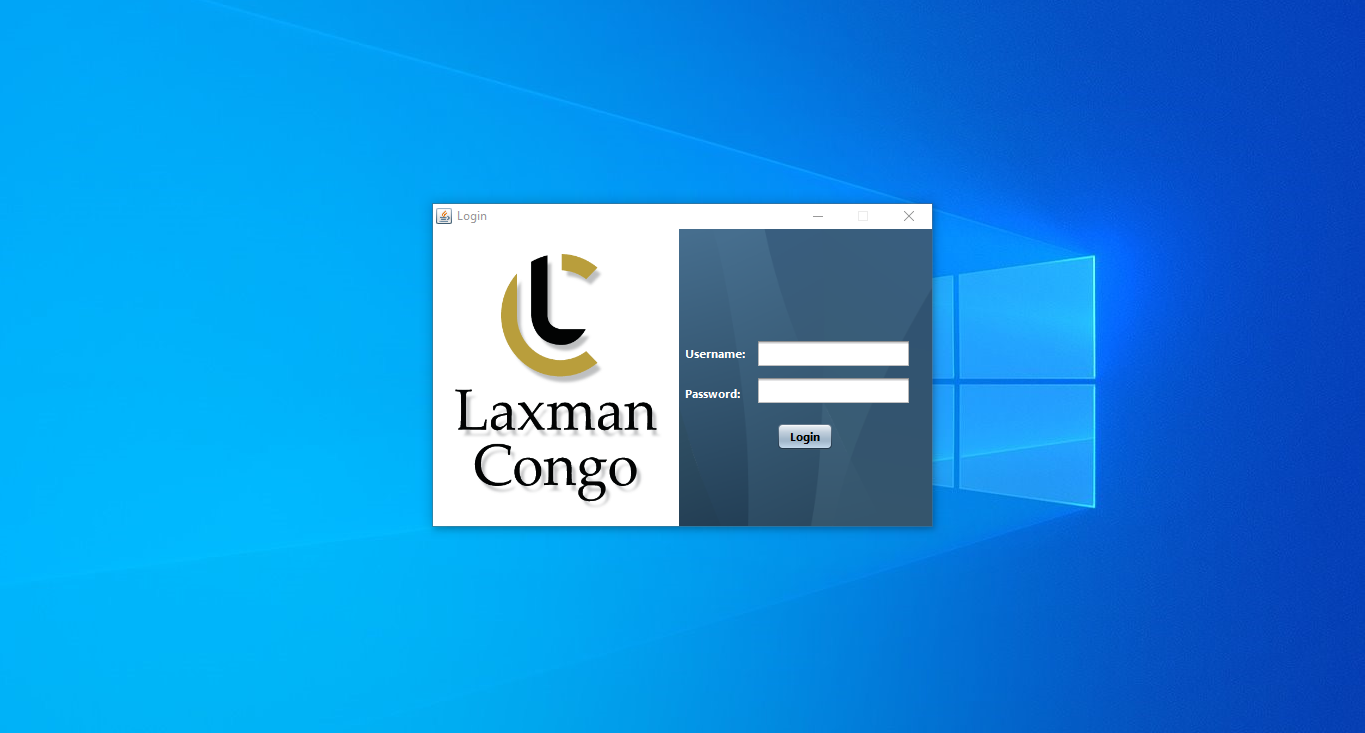
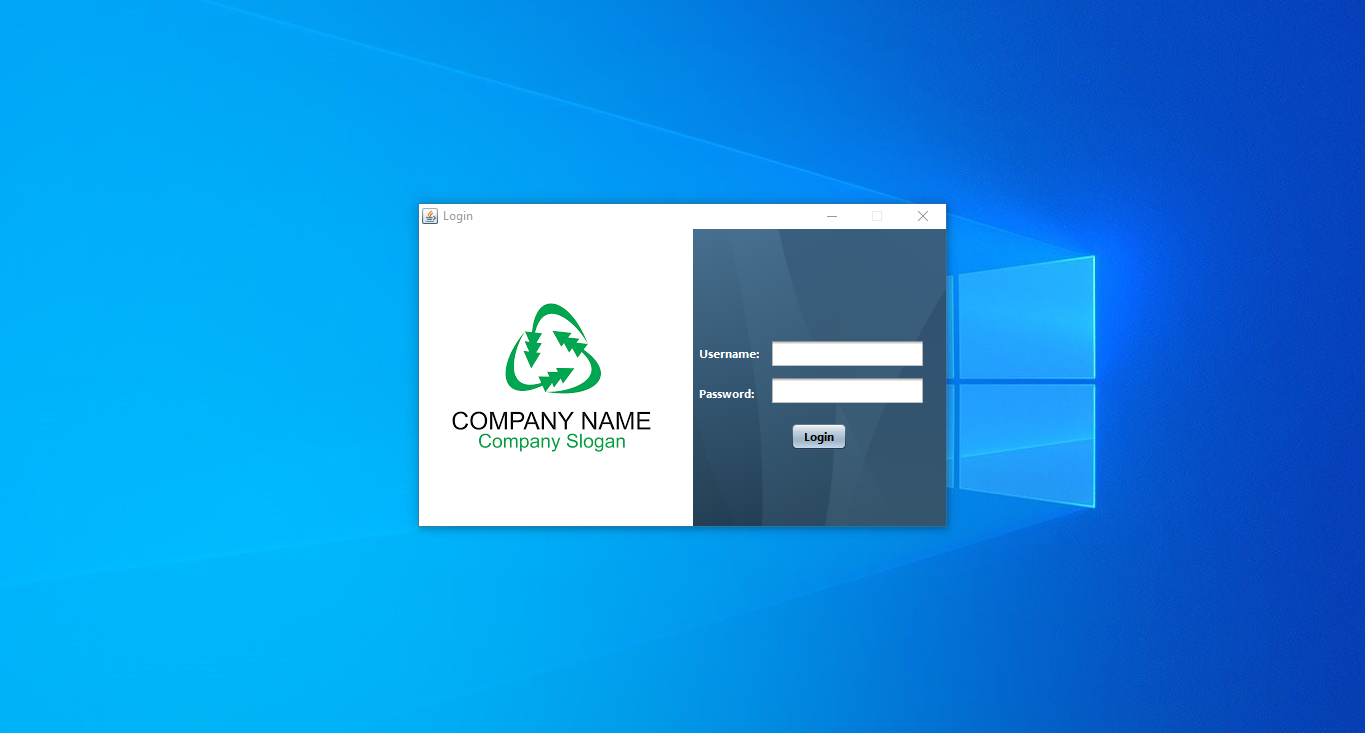
Update POS Login

Changed region(s): [[0.3077, 0.2701, 0.6154, 0.7203], [0.6462, 0.2701, 0.7077, 0.7203]]

diff --git a/pos/src/com/pos/Login.java b/pos/src/com/pos/Login.java
@@ -50,7 +50,7 @@ public class Login extends javax.swing.JFrame {
         jPanel3.setCursor(new java.awt.Cursor(java.awt.Cursor.DEFAULT_CURSOR));
 
         jLabel2.setBackground(new java.awt.Color(255, 153, 51));
-        jLabel2.setIcon(new javax.swing.ImageIcon(getClass().getResource("/img/output-onlinepngtools (2).png"))); // NOI18N
+        jLabel2.setIcon(new javax.swing.ImageIcon(getClass().getResource("/img/images (1).png"))); // NOI18N
         jLabel2.setText("jLabel2");
         jLabel2.setBorder(new javax.swing.border.MatteBorder(null));
 
@@ -129,7 +129,7 @@ public class Login extends javax.swing.JFrame {
         jPanel3Layout.setHorizontalGroup(
             jPanel3Layout.createParallelGroup(javax.swing.GroupLayout.Alignment.LEADING)
             .addGroup(jPanel3Layout.createSequentialGroup()
-                .addComponent(jLabel2, javax.swing.GroupLayout.PREFERRED_SIZE, 240, javax.swing.GroupLayout.PREFERRED_SIZE)
+                .addComponent(jLabel2, javax.swing.GroupLayout.PREFERRED_SIZE, 268, javax.swing.GroupLayout.PREFERRED_SIZE)
                 .addPreferredGap(javax.swing.LayoutStyle.ComponentPlacement.RELATED)
                 .addComponent(jDesktopPane1))
         );
